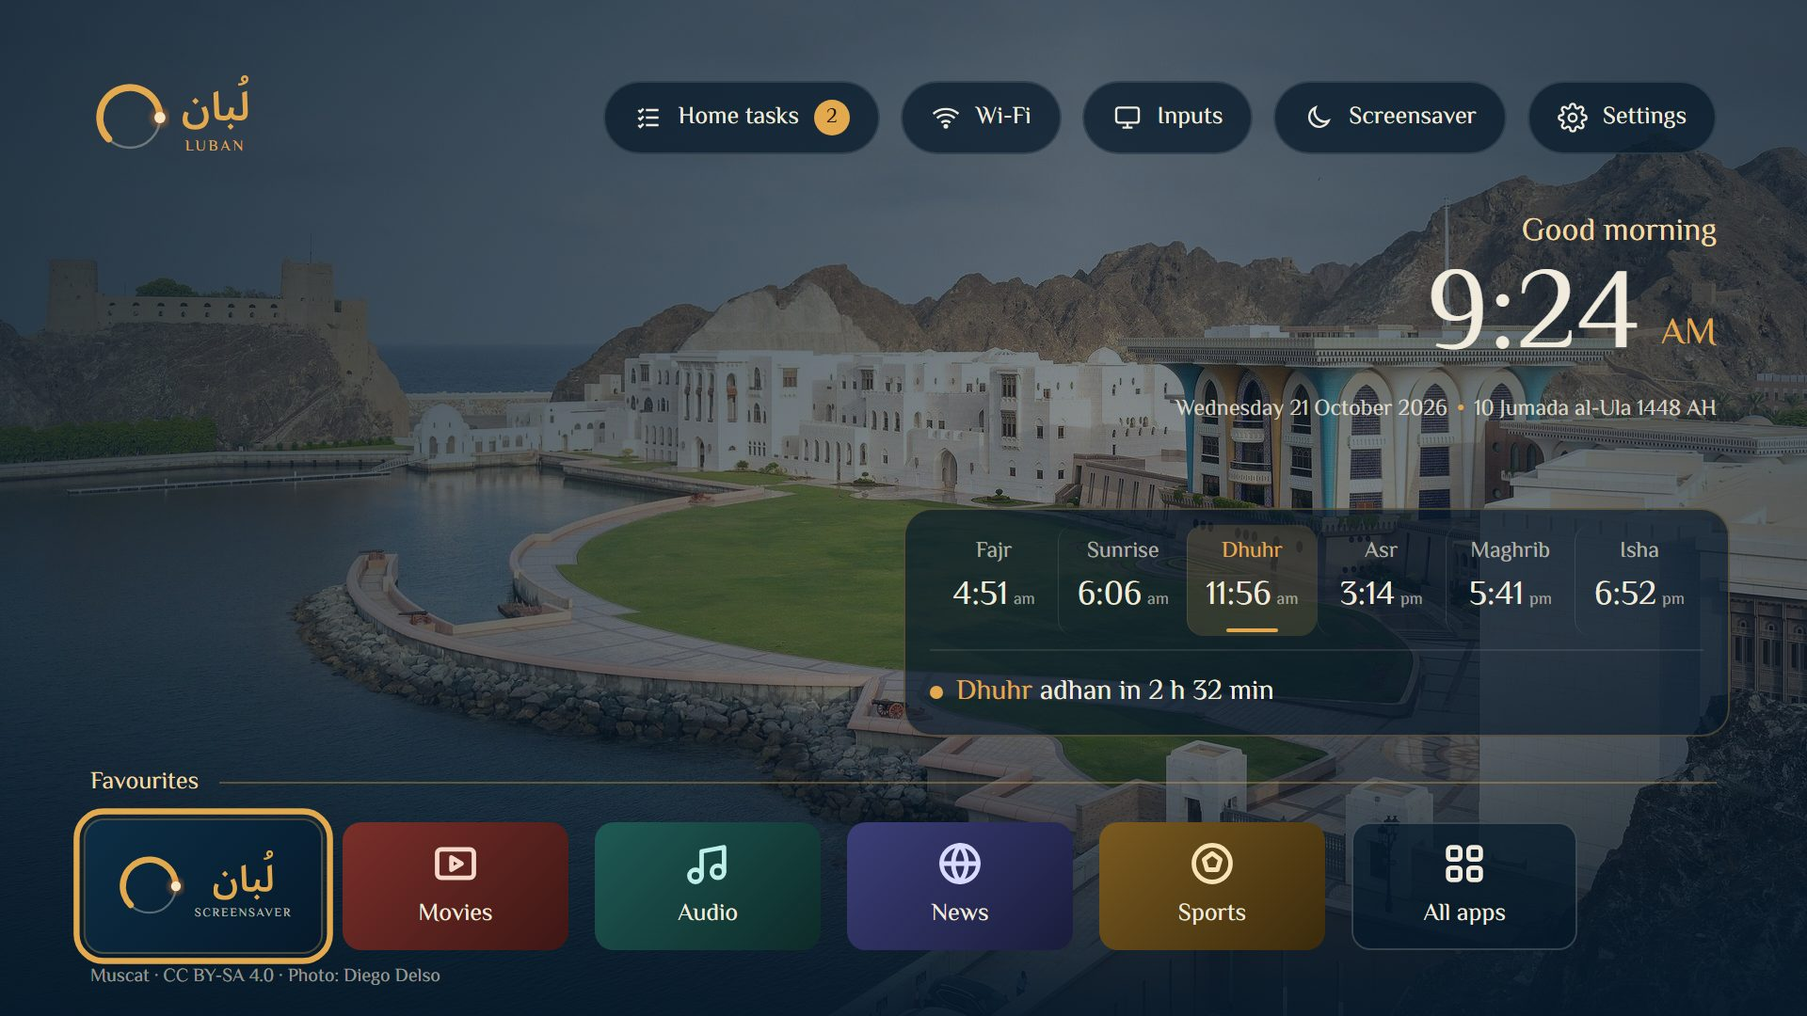
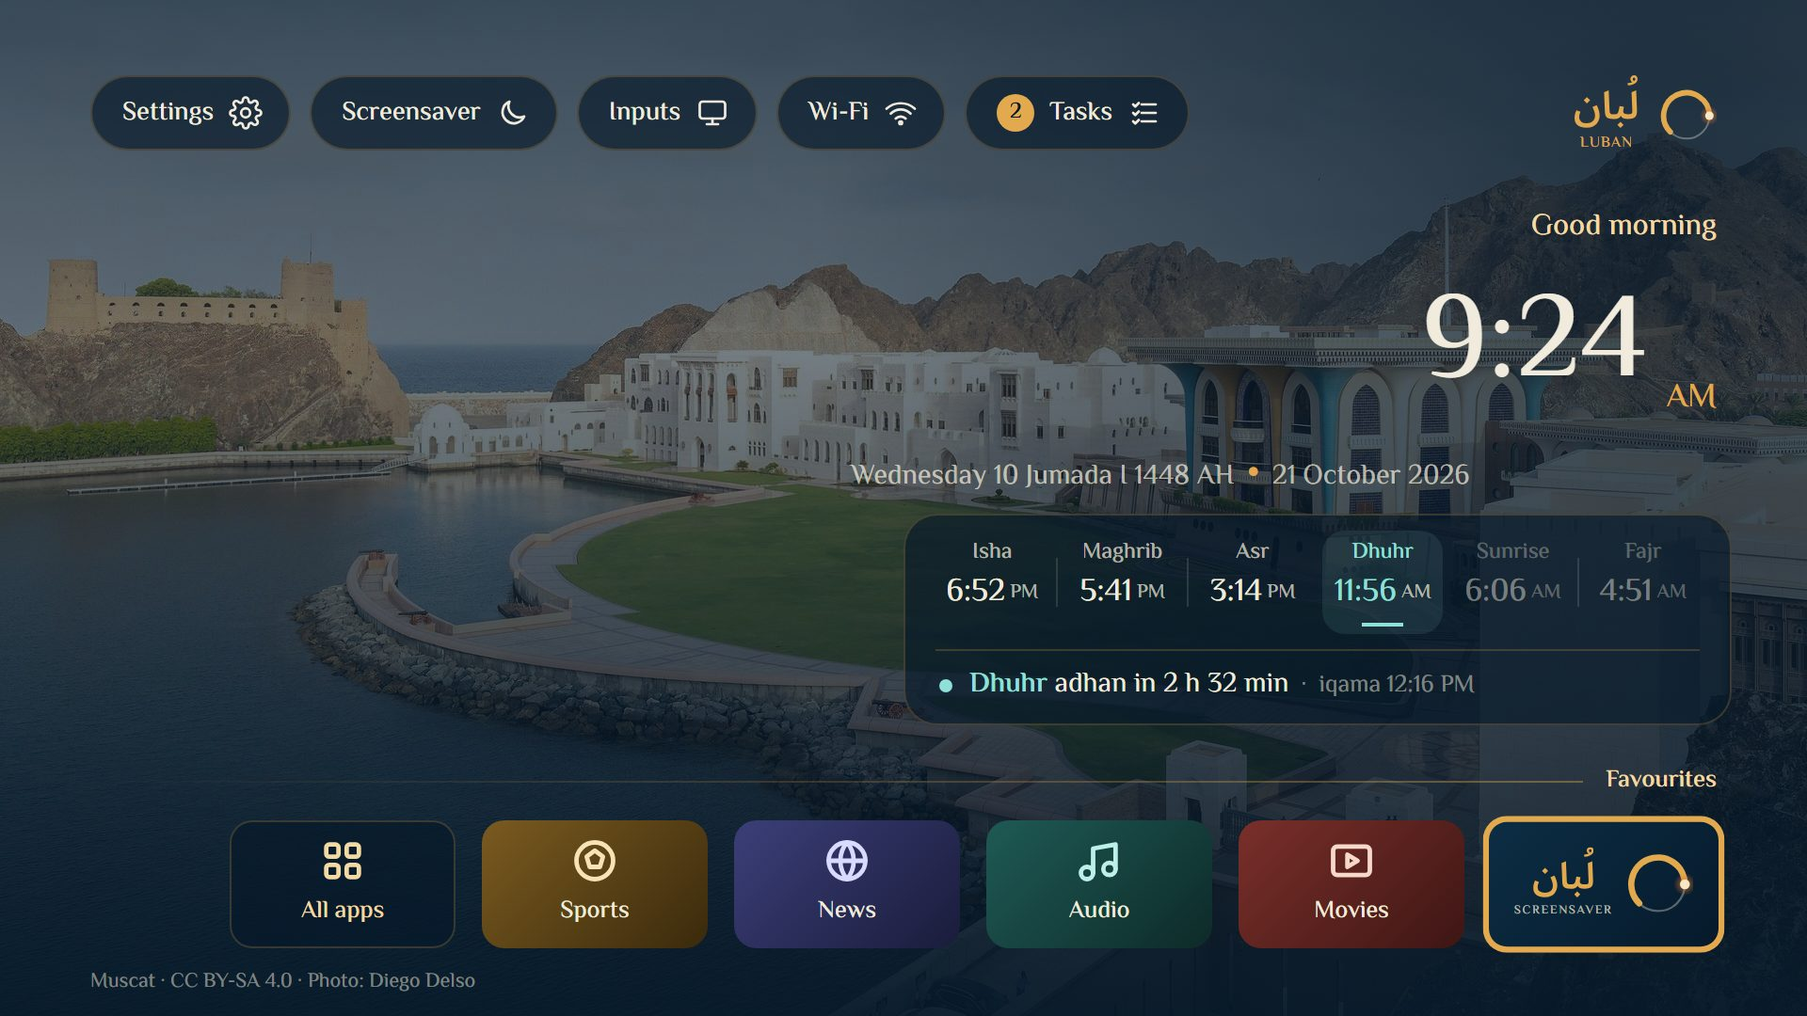
Site: the home screen drawn as the TV shows it, credits no longer covered
The home screen on the site put the greeting, clock, dates and prayer panel on
the wrong side. site/screens/home.html is now laid out from HomeActivity,
PrayerCard and Ui: the 960x540 dp dock at 2 px per dp, El Messiri's own line
height, the brand and time column on the right, the pills on the left, the
favourites at the bottom and the photo's credit in the lower left corner. The
root stays right-to-left in English too, as in the app. Checked by laying it
over a screenshot of the Skyworth (kept off the repo): the parts line up.

The gallery's captions sat over the bottom of each shot and hid the photo
credits there; they now sit under the shot at every width.

diff --git a/site/screens/home.html b/site/screens/home.html
@@ -1,115 +1,145 @@
 <!doctype html>
-<!-- A demo of Luban's home screen (the launcher is native Android, so it is redrawn here) for the site's screenshots:
-     neutral app tiles, a fixed time in Muscat, no data from any real TV. Open with ?lang=en for English.
-     Rendered by site/shots.mjs. -->
+<!-- Luban's home screen redrawn for the site's screenshots (the launcher is native Android), laid out exactly as
+     android/launcher/.../HomeActivity.java, PrayerCard.java and Ui.java do it: the 960x540 dp dock at 2 px per dp.
+     The root is right-to-left in both languages, as in the app: brand and time on the right, the pills on the left,
+     the photo's credit in the lower left corner. Neutral app tiles, a fixed time in Muscat, no data from any real TV.
+     Open with ?lang=en for English. Rendered by site/shots.mjs. -->
 <html lang="ar" dir="rtl"><head><meta charset="utf-8">
 <style>
 @font-face{font-family:M;font-weight:400;src:url(../../assets/fonts/el-messiri-arabic-400-normal.woff2)}
+@font-face{font-family:M;font-weight:500;src:url(../../assets/fonts/el-messiri-arabic-500-normal.woff2)}
 @font-face{font-family:M;font-weight:600;src:url(../../assets/fonts/el-messiri-arabic-600-normal.woff2)}
 @font-face{font-family:L;font-weight:400;src:url(../../assets/fonts/el-messiri-latin-400-normal.woff2)}
+@font-face{font-family:L;font-weight:500;src:url(../../assets/fonts/el-messiri-latin-500-normal.woff2)}
 @font-face{font-family:L;font-weight:600;src:url(../../assets/fonts/el-messiri-latin-600-normal.woff2)}
+/* Ui.java: INK F1EBDD, INK2 BD (74%), INK3 80 (50%), LUBAN E2A94F, LUBAN_SOFT F3D9A4, FOAM 8FE0D6, GLASS A606192A, LINE 38E2A94F */
+:root{--ink:#F1EBDD;--ink2:rgba(241,235,221,.74);--ink3:rgba(241,235,221,.5);--luban:#E2A94F;--soft:#F3D9A4;--foam:#8FE0D6;
+  --glass:rgba(6,25,42,.65);--line:rgba(226,169,79,.22)}
 *{margin:0;padding:0;box-sizing:border-box}
 html,body{width:1920px;height:1080px;overflow:hidden}
-body{font-family:M,L,sans-serif;color:#F1EBDD;position:relative;background:#06192A}
-[lang=en] body{font-family:L,M,sans-serif}
+body{font-family:L,M,sans-serif;color:var(--ink);position:relative;background:#06192A;line-height:1.6}
+/* El Messiri's own line height (about 1.6), as Android lays out its TextViews */
 .bg{position:absolute;inset:0;background:url(../../photos/c151778577.jpg) center/cover}
-.shade{position:absolute;inset:0;background:linear-gradient(90deg,rgba(6,25,42,.55) 0%,rgba(6,25,42,.25) 40%,rgba(6,25,42,.72) 100%),linear-gradient(0deg,rgba(6,25,42,.92) 0%,rgba(6,25,42,.2) 38%,rgba(6,25,42,.55) 100%)}
-[dir=ltr] .shade{background:linear-gradient(270deg,rgba(6,25,42,.55) 0%,rgba(6,25,42,.25) 40%,rgba(6,25,42,.72) 100%),linear-gradient(0deg,rgba(6,25,42,.92) 0%,rgba(6,25,42,.2) 38%,rgba(6,25,42,.55) 100%)}
-.top{position:absolute;top:80px;inset-inline:96px;display:flex;align-items:center}
-.brand{display:flex;align-items:center;gap:14px}
-.brand .sym{height:84px}
+/* the scrim over the photos (bottom to top F2, BF, 8C, BF) and the shade behind the clock's corner (93% 18%, 460 dp) */
+.scrim{position:absolute;inset:0;background:linear-gradient(0deg,rgba(6,25,42,.95) 0%,rgba(6,25,42,.75) 33%,rgba(6,25,42,.55) 67%,rgba(6,25,42,.75) 100%)}
+.glow{position:absolute;inset:0;background:radial-gradient(circle 920px at 93% 18%,rgba(6,25,42,.6),rgba(6,25,42,0))}
+.glass{background:var(--glass);border:2px solid var(--line)}
+
+/* brand: top 40 dp, start (right) 48 dp; the mark 32 dp, the wordmark 28 dp, LUBAN 8 sp under it */
+.brand{position:absolute;top:80px;right:96px;display:flex;align-items:center;gap:20px}
+.brand .sym{width:64px;height:64px}
 .brand .wm{display:flex;flex-direction:column;align-items:center}
-.brand .wm img{height:58px}
-.brand .wm span{font-family:L;letter-spacing:.18em;font-size:16px;color:#E2A94F;margin-top:6px}
-.caps{display:flex;gap:22px;margin-inline-start:auto}
-.cap{height:78px;padding:0 30px;border-radius:40px;background:rgba(6,25,42,.72);border:2px solid rgba(241,235,221,.12);display:flex;align-items:center;gap:16px;font-size:28px}
-[lang=en] .cap{font-size:26px}
-.cap svg{width:32px;height:32px;stroke:#F1EBDD;fill:none;stroke-width:1.8}
-.cap .n{width:38px;height:38px;border-radius:50%;background:#E2A94F;color:#1d1406;display:grid;place-items:center;font-family:L;font-size:22px}
-.right{position:absolute;inset-inline-end:96px;top:220px;text-align:end;width:880px}
-.greet{font-size:34px;color:#F3D9A4}
-.clock{display:flex;justify-content:flex-end;align-items:flex-end;gap:22px;margin-top:6px;flex-direction:row-reverse}
-[dir=ltr] .clock{justify-content:flex-start}
-.clock b{font-family:L;font-weight:400;font-size:122px;line-height:1}
-.clock i{font-style:normal;font-size:40px;color:#E2A94F;margin-bottom:14px}
-.date{font-size:24px;color:rgba(241,235,221,.85);margin-top:16px}
-.date em{font-style:normal;color:#E2A94F;margin:0 10px}
-.pr{position:absolute;inset-inline-end:82px;top:540px;width:878px;border-radius:30px;background:rgba(6,25,42,.66);border:2px solid rgba(226,169,79,.28);padding:16px 26px 22px}
-.row{display:flex;justify-content:space-between}
-.p{flex:1;text-align:center;padding:10px 0 14px;border-radius:18px;position:relative}
-.p+.p{border-inline-start:1px solid rgba(241,235,221,.12)}
-.p span{display:block;font-size:24px;color:rgba(241,235,221,.7)}
-.p b{font-family:L;font-weight:400;font-size:36px}
-.p small{font-size:18px;color:rgba(241,235,221,.6);margin-inline-start:6px}
-.p.on{background:rgba(226,169,79,.16)}
-.p.on span{color:#E2A94F}
-.p.on::after{content:"";position:absolute;bottom:4px;left:30%;right:30%;height:4px;border-radius:3px;background:#E2A94F}
-.next{border-top:2px solid rgba(241,235,221,.1);margin-top:14px;padding-top:20px;font-size:30px;display:flex;align-items:center;gap:14px}
-.next::before{content:"";width:14px;height:14px;border-radius:50%;background:#E2A94F}
-.next em{font-style:normal;color:#E2A94F}
-.fav{position:absolute;inset-inline:96px;top:812px}
-.fav h3{font-weight:400;font-size:26px;color:#F3D9A4;display:flex;align-items:center;gap:22px}
-.fav h3::after{content:"";flex:1;height:2px;background:rgba(226,169,79,.35)}
-.tiles{display:flex;gap:28px;margin-top:22px}
-.t{width:240px;height:136px;border-radius:20px;display:flex;flex-direction:column;align-items:center;justify-content:center;gap:8px;font-size:26px}
+.brand .wm img{height:56px}
+.brand .wm span{direction:ltr;font-weight:500;font-size:16px;color:var(--luban);padding-top:4px}
+
+/* five pills: top 40 dp, end (left) 48 dp; 40 dp high, icon 18 dp, name 14 sp, 10 dp apart */
+.pills{position:absolute;top:80px;left:96px;display:flex;gap:20px}
+.pill{height:80px;border-radius:40px;padding-inline:28px 32px;display:flex;align-items:center;gap:16px;font-weight:500;font-size:28px}
+.pill svg{width:36px;height:36px;stroke:var(--ink);fill:none;stroke-width:1.8;stroke-linecap:round;stroke-linejoin:round}
+.badge{height:40px;min-width:40px;padding:0 10px;border-radius:20px;background:var(--luban);color:#06192A;font-weight:600;font-size:24px;display:grid;place-items:center}
+
+/* the time column: start (right) 48 dp, top 40 + 68 dp, under the brand */
+.time{position:absolute;top:216px;right:96px;display:flex;flex-direction:column;align-items:flex-start}
+.greet{font-weight:500;font-size:32px;color:var(--soft)}
+.clock{display:flex;align-items:flex-end}
+.clock b{font-weight:500;font-size:128px;direction:ltr}
+.clock i{line-height:1.3;font-style:normal;font-weight:500;font-size:36px;color:var(--luban);padding-inline-start:20px;padding-bottom:24px}
+[lang=en] .clock{direction:ltr}
+.date{width:920px;height:42px;line-height:42px;margin-top:12px;font-size:30px;color:var(--ink2);white-space:nowrap}
+.date em{font-style:normal;color:var(--luban);font-size:1.3em;margin:0 .35em}
+/* today's prayers: 440 dp wide, 10 dp under the date, its edge 8 dp past the column */
+.pr{line-height:1.35;width:880px;margin-top:20px;margin-inline-start:-16px;border-radius:36px;padding:16px 24px 20px}
+.row{display:flex;align-items:center}
+.rule{width:2px;height:52px;background:rgba(241,235,221,.14);flex:none}
+.rule.off{visibility:hidden}
+.p{flex:1;margin:0 4px;padding:8px 0;border-radius:24px;display:flex;flex-direction:column;align-items:center}
+.p span{font-weight:500;font-size:24px;color:var(--ink2)}
+.p b{height:52px;display:flex;align-items:center;font-weight:500;font-size:34px}
+.p b small{font-size:.62em;color:var(--ink2);margin-inline-start:.25em}
+.p u{width:44px;height:4px;margin-top:6px;visibility:hidden}
+.p.gone{opacity:.45}
+.p.on{background:rgba(143,224,214,.1)}
+.p.on span,.p.on b{color:var(--foam)}
+.p.on u{visibility:visible;background:var(--foam)}
+.hr{height:2px;background:var(--line);margin:16px 8px}
+.foot{display:flex;align-items:center;gap:18px;padding:0 12px;font-size:30px}
+.foot::before{content:"";width:14px;height:14px;border-radius:50%;background:var(--foam);flex:none}
+.foot strong{font-weight:600;color:var(--foam)}
+.foot small{font-size:.87em;color:var(--ink3)}
+
+/* the dock: bottom 28 dp, the favourites' name 13 sp and a resin rule fading out, tiles 120 x 68 dp, 14 dp apart */
+.dock{position:absolute;bottom:56px;left:80px;right:80px}
+.head{display:flex;align-items:center;gap:24px;padding:0 16px 4px}
+.head h3{font-weight:600;font-size:26px;color:var(--soft)}
+.head i{flex:1;height:2px;background:linear-gradient(270deg,rgba(226,169,79,.4),rgba(226,169,79,0))}
+.tiles{display:flex;gap:28px;padding:16px}
+.t{width:240px;height:136px;border-radius:24px;display:flex;flex-direction:column;align-items:center;justify-content:center;gap:8px;font-weight:500;font-size:26px;flex:none}
 .t svg{width:52px;height:52px;fill:none;stroke-width:2.2;stroke-linecap:round;stroke-linejoin:round}
-.t.focus{outline:6px solid #E2A94F;outline-offset:4px;transform:scale(1.06)}
-.t1{background:linear-gradient(135deg,#0C2E45,#06192A);border:2px solid rgba(226,169,79,.3)}
+.t.focus{box-shadow:0 0 0 6px var(--luban) inset;transform:scale(1.07)}
+.t1{background:linear-gradient(135deg,#0C2E45,#06192A)}
 .t1 .in{display:flex;align-items:center;gap:10px}
 .t1 .in>img{height:70px}
 .t1 .w{display:flex;flex-direction:column;align-items:center}
 .t1 .w img{height:50px}
-.t1 .w span{font-family:L;font-size:12px;letter-spacing:.14em;color:rgba(241,235,221,.75);margin-top:4px}
+.t1 .w span{font-size:12px;letter-spacing:.14em;color:rgba(241,235,221,.75);margin-top:4px;direction:ltr}
 .t2{background:linear-gradient(135deg,#7a2f2a,#3d1614)}.t2 svg{stroke:#F7D9C9}
 .t3{background:linear-gradient(135deg,#1f5a55,#0d2a28)}.t3 svg{stroke:#BDF0E8}
 .t4{background:linear-gradient(135deg,#3b3f78,#1a1c3b)}.t4 svg{stroke:#D8DBFF}
 .t5{background:linear-gradient(135deg,#7a5a20,#3a2a0c)}.t5 svg{stroke:#F7E3B5}
-.t6{background:rgba(6,25,42,.72);border:2px solid rgba(241,235,221,.2)}.t6 svg{stroke:#F1EBDD}
-.credit{position:absolute;inset-inline-start:96px;bottom:26px;font-size:20px;color:rgba(241,235,221,.6)}
-.credit bdi{font-family:L}
+.t6{color:var(--soft)}.t6 svg{stroke:var(--soft)}
+
+/* the photo's credit: 11 sp, INK3, bottom 9 dp, end (left) 48 dp */
+.credit{position:absolute;left:96px;bottom:18px;font-size:22px;color:var(--ink3)}
 </style></head><body>
-<div class="bg"></div><div class="shade"></div>
-<div class="top">
-  <div class="brand"><img class="sym" src="../../docs/brand/v4/luban_symbol_v4.svg"><div class="wm"><img src="../../docs/brand/v4/luban_wordmark_resin_v4.svg"><span>LUBAN</span></div></div>
-  <div class="caps">
-    <div class="cap"><svg viewBox="0 0 24 24"><path d="M10 6h10M10 12h10M10 18h10M4 6l1.5 1.5L8 5M4 12l1.5 1.5L8 11M4 18l1.5 1.5L8 17"/></svg><span data-en="Home tasks">مهام البيت</span><span class="n">2</span></div>
-    <div class="cap"><svg viewBox="0 0 24 24"><path d="M2 9a15 15 0 0 1 20 0M5 12.5a10 10 0 0 1 14 0M8.5 16a5 5 0 0 1 7 0"/><circle cx="12" cy="19" r="1"/></svg><span data-en="Wi-Fi">الواي فاي</span></div>
-    <div class="cap"><svg viewBox="0 0 24 24"><rect x="3" y="4" width="18" height="12" rx="2"/><path d="M8 20h8M12 16v4"/></svg><span data-en="Inputs">المداخل</span></div>
-    <div class="cap"><svg viewBox="0 0 24 24"><path d="M20 14.5A8 8 0 0 1 9.5 4 8 8 0 1 0 20 14.5z"/></svg><span data-en="Screensaver">شاشة التوقف</span></div>
-    <div class="cap"><svg viewBox="0 0 24 24"><circle cx="12" cy="12" r="3.2"/><path d="M19.4 15a1.7 1.7 0 0 0 .3 1.8l.1.1a2 2 0 1 1-2.8 2.8l-.1-.1a1.7 1.7 0 0 0-1.8-.3 1.7 1.7 0 0 0-1 1.5V21a2 2 0 1 1-4 0v-.1a1.7 1.7 0 0 0-1.1-1.5 1.7 1.7 0 0 0-1.8.3l-.1.1a2 2 0 1 1-2.8-2.8l.1-.1a1.7 1.7 0 0 0 .3-1.8 1.7 1.7 0 0 0-1.5-1H3a2 2 0 1 1 0-4h.1a1.7 1.7 0 0 0 1.5-1.1 1.7 1.7 0 0 0-.3-1.8l-.1-.1a2 2 0 1 1 2.8-2.8l.1.1a1.7 1.7 0 0 0 1.8.3H9a1.7 1.7 0 0 0 1-1.5V3a2 2 0 1 1 4 0v.1a1.7 1.7 0 0 0 1 1.5 1.7 1.7 0 0 0 1.8-.3l.1-.1a2 2 0 1 1 2.8 2.8l-.1.1a1.7 1.7 0 0 0-.3 1.8V9a1.7 1.7 0 0 0 1.5 1H21a2 2 0 1 1 0 4h-.1a1.7 1.7 0 0 0-1.5 1z"/></svg><span data-en="Settings">الإعدادات</span></div>
-  </div>
+<div class="bg"></div><div class="scrim"></div><div class="glow"></div>
+
+<div class="brand"><img class="sym" src="../../docs/brand/v4/luban_symbol_v4.svg" alt=""><div class="wm"><img src="../../docs/brand/v4/luban_wordmark_resin_v4.svg" alt=""><span>L&#8202;U&#8202;B&#8202;A&#8202;N</span></div></div>
+
+<div class="pills">
+  <div class="pill glass"><svg viewBox="0 0 24 24"><path d="M10 6h10M10 12h10M10 18h10M4 6l1.5 1.5L8 5M4 12l1.5 1.5L8 11M4 18l1.5 1.5L8 17"/></svg><span data-en="Tasks">مهام البيت</span><span class="badge">2</span></div>
+  <div class="pill glass"><svg viewBox="0 0 24 24"><path d="M2 9a15 15 0 0 1 20 0M5 12.5a10 10 0 0 1 14 0M8.5 16a5 5 0 0 1 7 0"/><circle cx="12" cy="19" r="1"/></svg><span data-en="Wi-Fi">واي فاي</span></div>
+  <div class="pill glass"><svg viewBox="0 0 24 24"><rect x="3" y="4" width="18" height="12" rx="2"/><path d="M8 20h8M12 16v4"/></svg><span data-en="Inputs">المداخل</span></div>
+  <div class="pill glass"><svg viewBox="0 0 24 24"><path d="M20 14.5A8 8 0 0 1 9.5 4 8 8 0 1 0 20 14.5z"/></svg><span data-en="Screensaver">شاشة التوقف</span></div>
+  <div class="pill glass"><svg viewBox="0 0 24 24"><circle cx="12" cy="12" r="3.2"/><path d="M19.4 15a1.7 1.7 0 0 0 .3 1.8l.1.1a2 2 0 1 1-2.8 2.8l-.1-.1a1.7 1.7 0 0 0-1.8-.3 1.7 1.7 0 0 0-1 1.5V21a2 2 0 1 1-4 0v-.1a1.7 1.7 0 0 0-1.1-1.5 1.7 1.7 0 0 0-1.8.3l-.1.1a2 2 0 1 1-2.8-2.8l.1-.1a1.7 1.7 0 0 0 .3-1.8 1.7 1.7 0 0 0-1.5-1H3a2 2 0 1 1 0-4h.1a1.7 1.7 0 0 0 1.5-1.1 1.7 1.7 0 0 0-.3-1.8l-.1-.1a2 2 0 1 1 2.8-2.8l.1.1a1.7 1.7 0 0 0 1.8.3H9a1.7 1.7 0 0 0 1-1.5V3a2 2 0 1 1 4 0v.1a1.7 1.7 0 0 0 1 1.5 1.7 1.7 0 0 0 1.8-.3l.1-.1a2 2 0 1 1 2.8 2.8l-.1.1a1.7 1.7 0 0 0-.3 1.8V9a1.7 1.7 0 0 0 1.5 1H21a2 2 0 1 1 0 4h-.1a1.7 1.7 0 0 0-1.5 1z"/></svg><span data-en="Settings">الإعدادات</span></div>
 </div>
-<div class="right">
+
+<div class="time">
   <div class="greet" data-en="Good morning">صباح الخير</div>
-  <div class="clock"><i data-en="AM">صباحًا</i><b>9:24</b></div>
-  <div class="date" data-en="Wednesday 21 October 2026<em>•</em>10 Jumada al-Ula 1448 AH">الأربعاء 10 جمادى الأولى 1448 هـ<em>•</em>21 أكتوبر 2026 م</div>
-</div>
-<div class="pr">
-  <div class="row">
-    <div class="p"><span data-en="Fajr">الفجر</span><b>4:51</b><small data-en="am">ص</small></div>
-    <div class="p"><span data-en="Sunrise">الشروق</span><b>6:06</b><small data-en="am">ص</small></div>
-    <div class="p on"><span data-en="Dhuhr">الظهر</span><b>11:56</b><small data-en="am">ص</small></div>
-    <div class="p"><span data-en="Asr">العصر</span><b>3:14</b><small data-en="pm">م</small></div>
-    <div class="p"><span data-en="Maghrib">المغرب</span><b>5:41</b><small data-en="pm">م</small></div>
-    <div class="p"><span data-en="Isha">العشاء</span><b>6:52</b><small data-en="pm">م</small></div>
+  <div class="clock"><b>9:24</b><i data-en="AM">صباحًا</i></div>
+  <div class="date" data-en="Wednesday 10 Jumada I 1448 AH<em>•</em>21 October 2026">الأربعاء 10 جمادى الأولى 1448 هـ<em>•</em>21 أكتوبر 2026 م</div>
+  <div class="pr glass">
+    <div class="row">
+      <div class="p gone"><span data-en="Fajr">الفجر</span><b>4:51<small data-en="AM">ص</small></b><u></u></div><i class="rule"></i>
+      <div class="p gone"><span data-en="Sunrise">الشروق</span><b>6:06<small data-en="AM">ص</small></b><u></u></div><i class="rule off"></i>
+      <div class="p on"><span data-en="Dhuhr">الظهر</span><b>11:56<small data-en="AM">ص</small></b><u></u></div><i class="rule off"></i>
+      <div class="p"><span data-en="Asr">العصر</span><b>3:14<small data-en="PM">م</small></b><u></u></div><i class="rule"></i>
+      <div class="p"><span data-en="Maghrib">المغرب</span><b>5:41<small data-en="PM">م</small></b><u></u></div><i class="rule"></i>
+      <div class="p"><span data-en="Isha">العشاء</span><b>6:52<small data-en="PM">م</small></b><u></u></div>
+    </div>
+    <div class="hr"></div>
+    <div class="foot"><span data-en="<strong>Dhuhr</strong> adhan in 2 h 32 min<small>&nbsp;&nbsp;·&nbsp;&nbsp;iqama 12:16 PM</small>">أذان <strong>الظهر</strong> بعد 2 س 32 د<small>&nbsp;&nbsp;·&nbsp;&nbsp;الإقامة 12:16 م</small></span></div>
   </div>
-  <div class="next" data-en="<span><em>Dhuhr</em> adhan in 2 h 32 min</span>"><span>أذان <em>الظهر</em> بعد ساعتين و32 دقيقة</span></div>
 </div>
-<div class="fav"><h3 data-en="Favourites">المفضّلة</h3>
+
+<div class="dock">
+  <div class="head"><h3 data-en="Favourites">المفضلة</h3><i></i></div>
   <div class="tiles">
-    <div class="t t1 focus"><div class="in"><img src="../../docs/brand/v4/luban_symbol_v4.svg"><div class="w"><img src="../../docs/brand/v4/luban_wordmark_resin_v4.svg"><span>SCREENSAVER</span></div></div></div>
+    <div class="t t1 focus"><div class="in"><img src="../../docs/brand/v4/luban_symbol_v4.svg" alt=""><div class="w"><img src="../../docs/brand/v4/luban_wordmark_resin_v4.svg" alt=""><span>SCREENSAVER</span></div></div></div>
     <div class="t t2"><svg viewBox="0 0 24 24"><rect x="3" y="5" width="18" height="14" rx="2"/><path d="M10 9l5 3-5 3z"/></svg><span data-en="Movies">أفلام</span></div>
     <div class="t t3"><svg viewBox="0 0 24 24"><path d="M9 18V6l11-2v12"/><circle cx="6" cy="18" r="3"/><circle cx="17" cy="16" r="3"/></svg><span data-en="Audio">صوتيات</span></div>
     <div class="t t4"><svg viewBox="0 0 24 24"><circle cx="12" cy="12" r="9"/><path d="M3 12h18M12 3a14 14 0 0 1 0 18M12 3a14 14 0 0 0 0 18"/></svg><span data-en="News">أخبار</span></div>
     <div class="t t5"><svg viewBox="0 0 24 24"><circle cx="12" cy="12" r="9"/><path d="M12 7l4 3-1.5 5h-5L8 10z"/></svg><span data-en="Sports">رياضة</span></div>
-    <div class="t t6"><svg viewBox="0 0 24 24"><rect x="4" y="4" width="6" height="6" rx="1.5"/><rect x="14" y="4" width="6" height="6" rx="1.5"/><rect x="4" y="14" width="6" height="6" rx="1.5"/><rect x="14" y="14" width="6" height="6" rx="1.5"/></svg><span data-en="All apps">جميع التطبيقات</span></div>
+    <div class="t t6 glass"><svg viewBox="0 0 24 24"><rect x="4" y="4" width="6" height="6" rx="1.5"/><rect x="14" y="4" width="6" height="6" rx="1.5"/><rect x="4" y="14" width="6" height="6" rx="1.5"/><rect x="14" y="14" width="6" height="6" rx="1.5"/></svg><span data-en="All apps">جميع التطبيقات</span></div>
   </div>
 </div>
-<div class="credit" data-en="Muscat · CC BY-SA 4.0 · Photo: Diego Delso">مسقط · CC BY-SA 4.0 · تصوير: <bdi>Diego Delso</bdi></div>
+
+<div class="credit" data-en="Muscat · <bdi>CC BY-SA 4.0</bdi> · Photo: <bdi>Diego Delso</bdi>">مسقط · <bdi>CC BY-SA 4.0</bdi> · تصوير: <bdi>Diego Delso</bdi></div>
 <script>
+// English: the words change, the layout does not (the app's root stays right-to-left in both languages)
 if (new URLSearchParams(location.search).get('lang') === 'en') {
-  document.documentElement.lang = 'en'; document.documentElement.dir = 'ltr';
+  document.documentElement.lang = 'en';
   document.querySelectorAll('[data-en]').forEach(e => { e.innerHTML = e.dataset.en; });
+  document.querySelectorAll('.greet,.date,.foot,.p span,.p b,.credit,.pill span').forEach(e => { e.dir = 'ltr'; });
 }
 </script>
 </body></html>

diff --git a/site/www/assets/site.css b/site/www/assets/site.css
@@ -118,7 +118,8 @@ h2{font-size:38px;font-weight:600;margin-top:8px;line-height:1.45}
 .gal+.gal{margin-top:20px}
 .shot{border-radius:16px;overflow:hidden;border:1px solid rgba(241,235,221,.1);background:#000;position:relative;box-shadow:0 20px 50px rgba(0,0,0,.35)}
 .shot img{width:100%;aspect-ratio:16/9;object-fit:cover}
-.shot figcaption{position:absolute;bottom:0;inset-inline:0;padding:40px 18px 14px;background:linear-gradient(transparent,rgba(6,25,42,.94));font-size:15.5px;display:flex;align-items:center;gap:10px}
+/* under the shot, not over it: an overlay hid the photo credit in each shot's lower corner */
+.shot figcaption{background:var(--sea);padding:12px 18px;font-size:15.5px;display:flex;align-items:center;gap:10px}
 .shot figcaption::before{content:"";flex:none;width:6px;height:6px;border-radius:50%;background:var(--resin)}
 .note{font-size:13.5px;color:var(--ink3);margin-top:16px}
 
@@ -332,7 +333,7 @@ footer .cred{max-width:1180px;margin:30px auto 0;padding:20px 32px 0;border-top:
   .name .wrap{grid-template-columns:1fr;gap:20px;justify-items:center;text-align:center}
   .ember{width:170px;height:170px}.ember img{width:182px}
   .name blockquote{font-size:21px}
-  .shot figcaption{position:static;background:var(--sea);padding:10px 14px;font-size:14.5px}
+  .shot figcaption{padding:10px 14px;font-size:14.5px}
   .path-head{padding:22px 18px;align-items:flex-start;flex-wrap:wrap}
   .path-head .spark{display:none}
   .path-head h3{font-size:20px}
